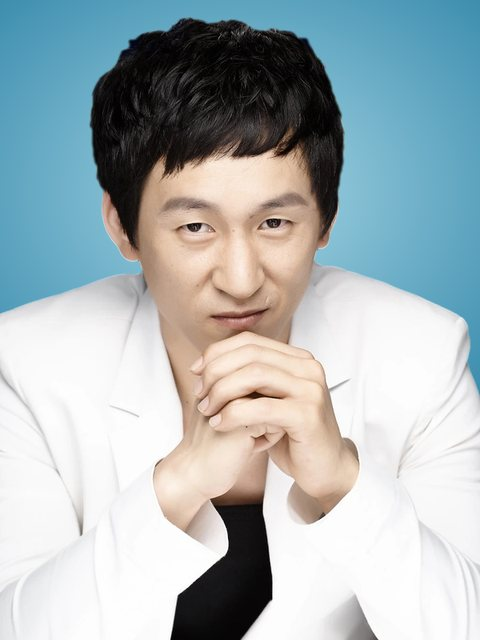
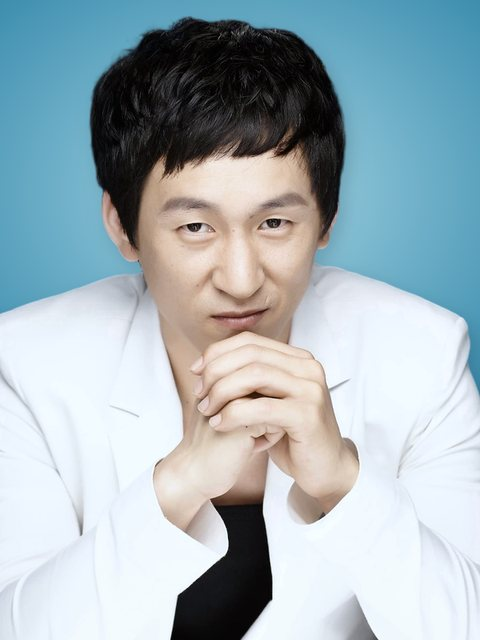
꽃포장 길마차: 영주 소개 문구를 고치고 출연진·스태프 사진을 새 누끼로 바꾼다
- 영주: 「자존심 하나로 버텨 온 미자네 포장마차 단골 «선생님».」
- 출연진 5명·스태프 2명 사진을 G: 프로필_최종(머리카락 경계 정리·톤 통일판)으로 다시 만든다

diff --git a/kkotpocha.html b/kkotpocha.html
@@ -515,7 +515,7 @@ p + p{margin-top:1.1rem}
         <figure><img src="images/kkotpocha-youngju.jpg" alt="영주·애기엄마 역 김채안" loading="lazy" onerror="this.closest('figure').remove()"></figure>
         <p class="role">영주 · 애기엄마 (1인 2역)</p>
         <h3>김채안</h3>
-        <p>자존심 하나로 버텨 온 단골 «선생님». 폭력을 피해 시장을 맴도는 낯선 애기엄마</p>
+        <p>자존심 하나로 버텨 온 미자네 포장마차 단골 «선생님». 폭력을 피해 시장을 맴도는 낯선 애기엄마</p>
       </article>
       <article class="person">
         <!-- 이진욱 사진 미정 — 받으면 images/kkotpocha-lee-jinwook.jpg(800×1000, 위와 같은 배경)로 만들어
